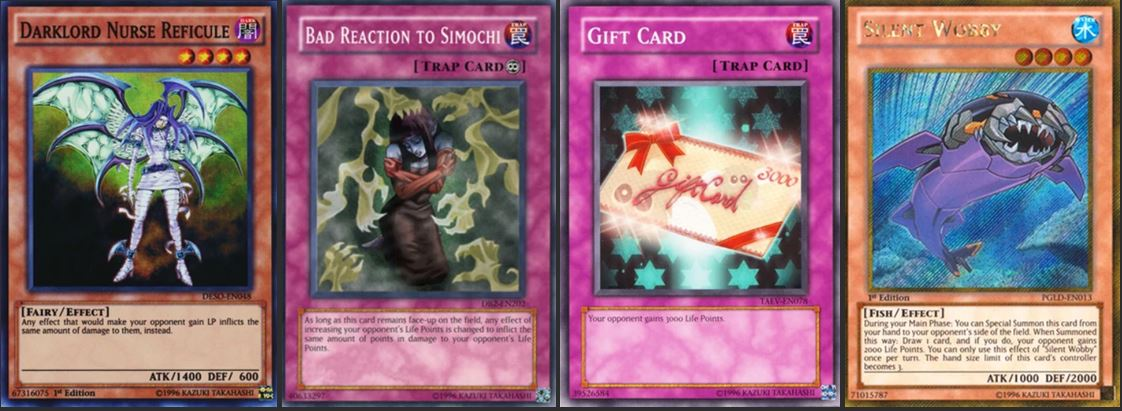
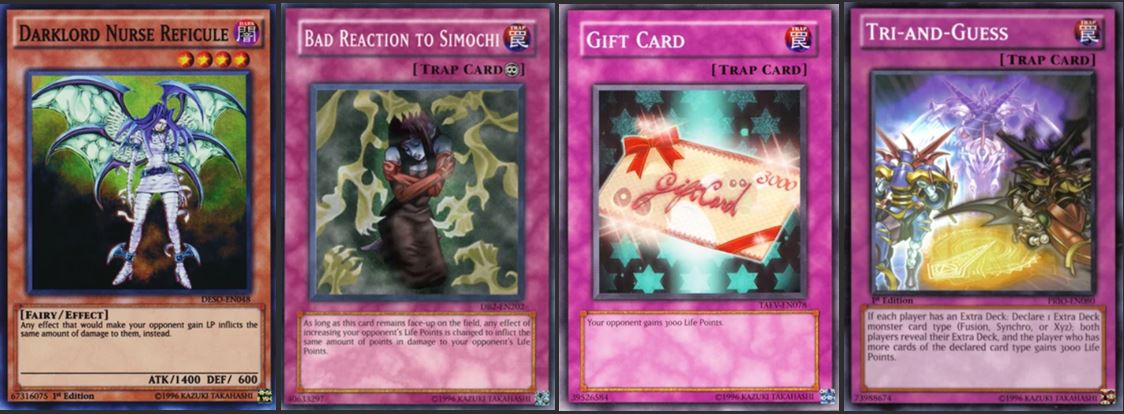
Replace card in Yu-Gi-Oh blog post

diff --git a/_posts/2019-08-19-yugioh-4-fun-non-meta-decks.md b/_posts/2019-08-19-yugioh-4-fun-non-meta-decks.md
@@ -84,9 +84,7 @@ The entire strategy revolves around two key cards—**Darklord Nurse Reficule** 
 
 So, do you enjoy pissing off your opponent by dealing effect damage through "healing" cards? Are you willing to tolerate a barrage of explitives when they realize what you're doing? Then by all means, use this deck.
 
-The two cards on the far right are key. **Gift Card** is pretty much guaranteed 3k damage, and **Silent Wobby** lets you draw one card and deal 2k damage, with the added benefit of limiting your opponent's hand size to three until they get rid of it. The only downside is that it's free fodder for Link/XYZ plays.
-
-Throw in some stall cards and traps, and you're good to go. My favorite trick is using the trap **Tri-and-Guess**:
+Throw in some stall cards and traps, and you're good to go. The two cards on the far right are key. **Gift Card** is pretty much guaranteed 3k damage. But my favorite trick is using the trap **Tri-and-Guess**:
 
 > If each player has an Extra Deck: Declare 1 Extra Deck monster card type (Fusion, Synchro, or Xyz); both players reveal their Extra Deck, and the player who has more cards of the declared card type gains 3000 Life Points.
 
